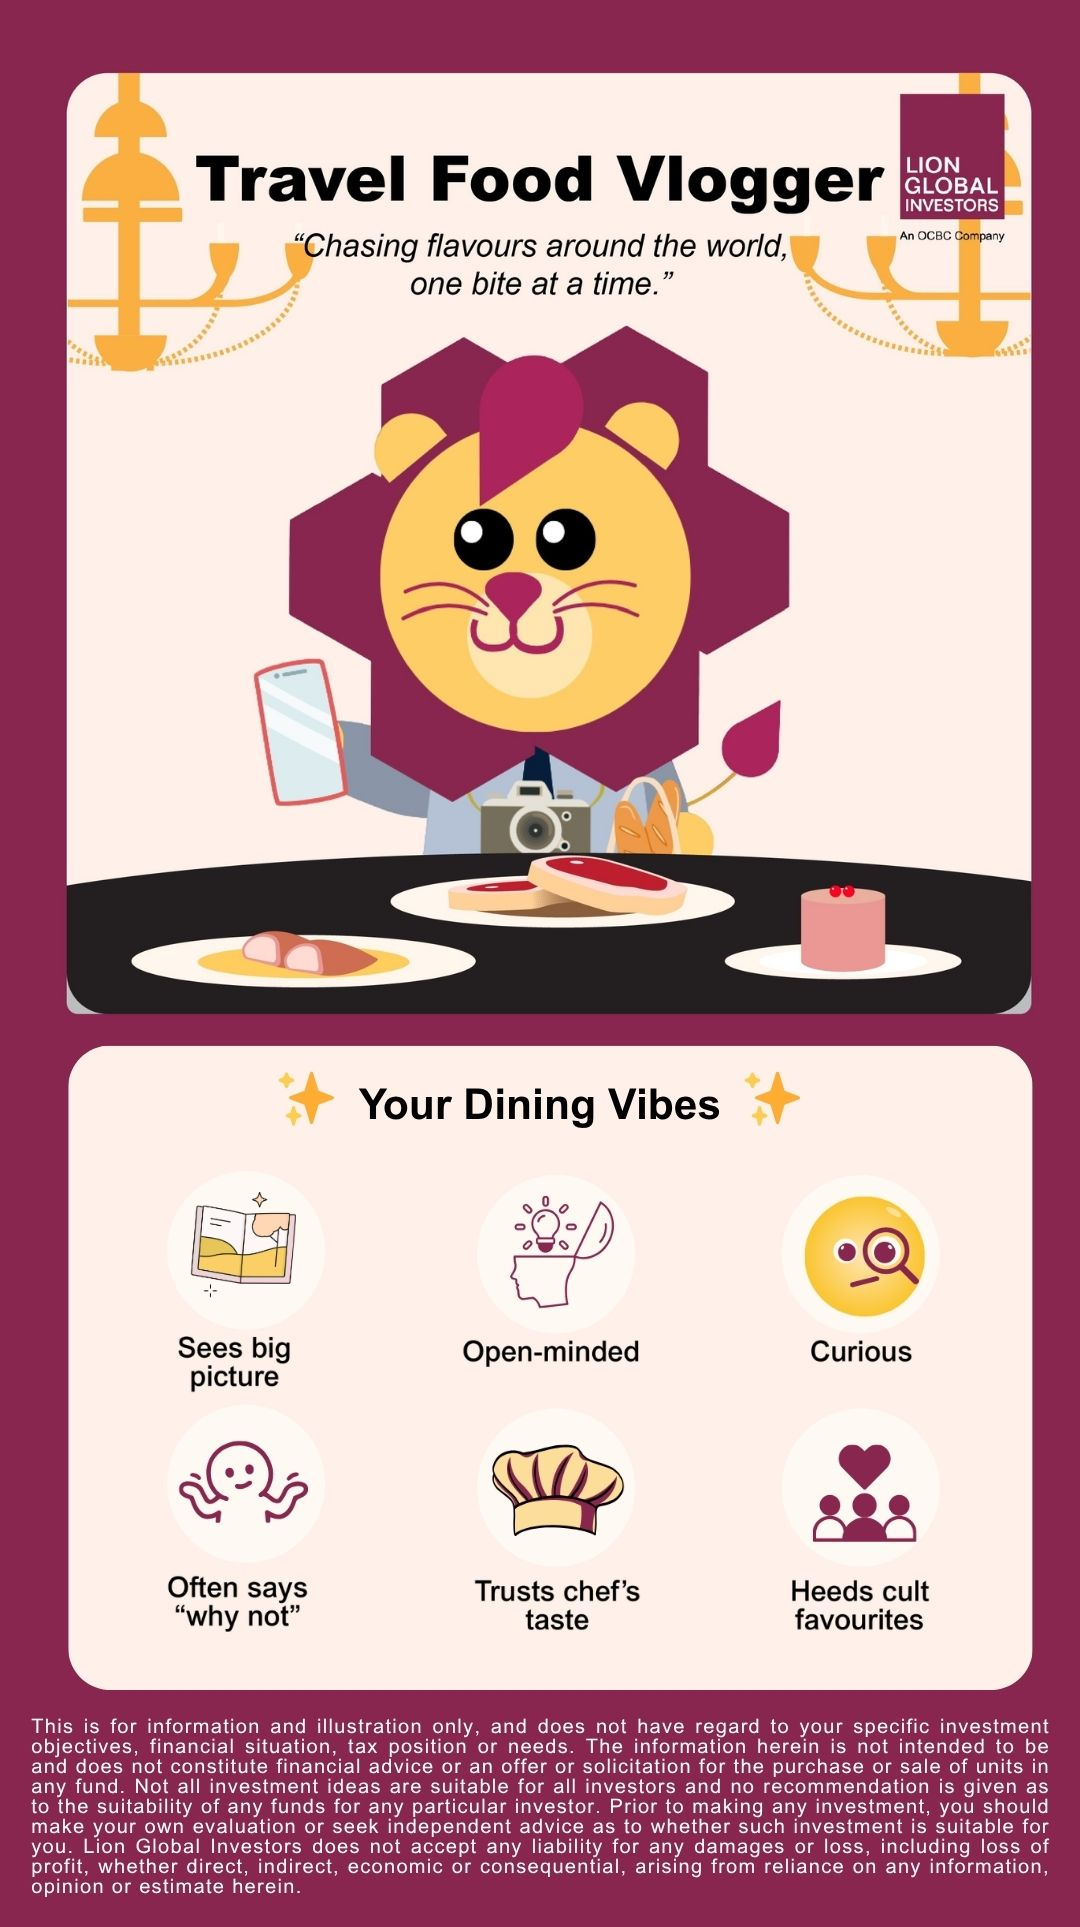
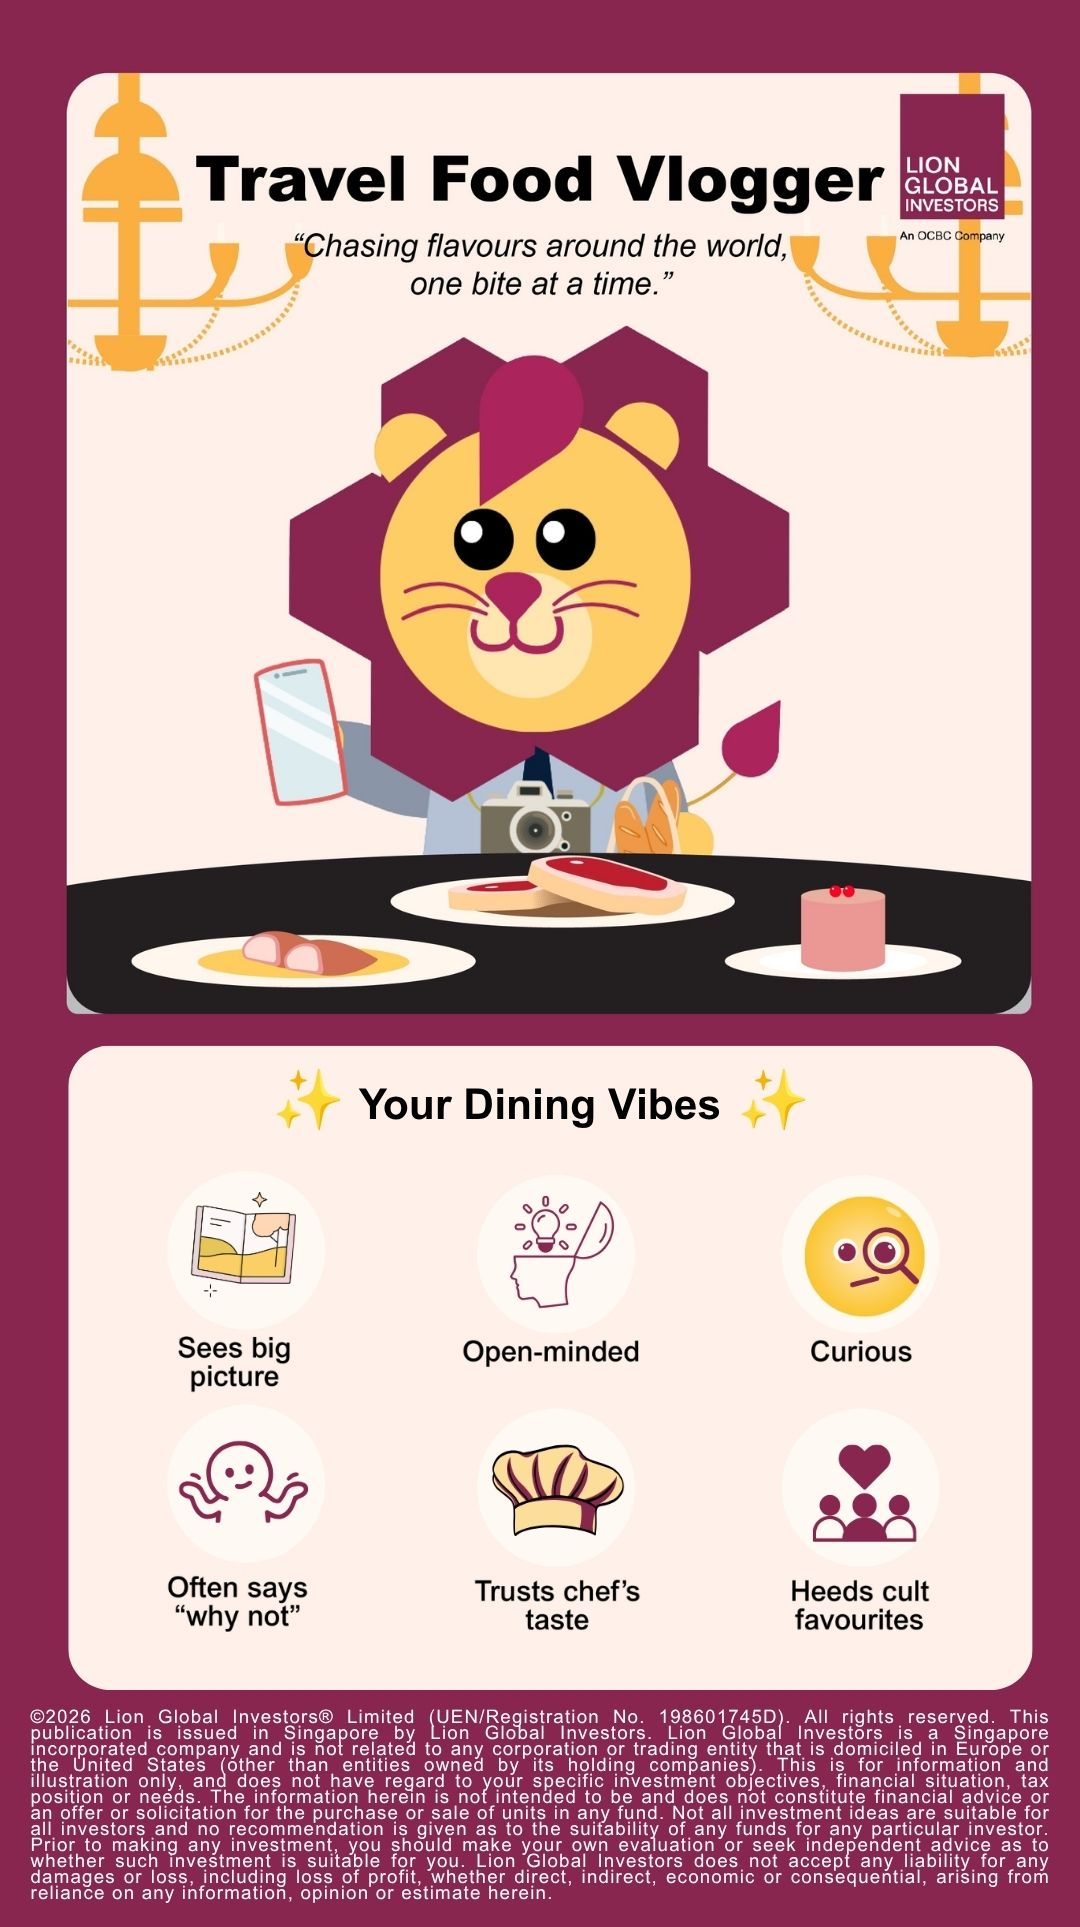
update all disclaimers with company copyright and UEN

Changed region(s): [[0.0306, 0.8718, 0.9778, 0.9964], [0.6722, 0.5293, 0.7333, 0.5916], [0.2444, 0.5605, 0.3056, 0.5916]]

diff --git a/result-classic-lover.html b/result-classic-lover.html
@@ -140,7 +140,7 @@
           
         </div>
 
-        <p class="disclaimer" id="disclaimer">^LBMA GOLD PRICE IS A TRADEMARK OF PRECIOUS METALS PRICES LIMITED, LICENSED TO ICE BENCHMARK ADMINISTRATION LIMITED (IBA) AS THE ADMINISTRATOR OF THE LBMA GOLD PRICE, AND IS USED BY LION GLOBAL INVESTORS LIMITED WITH PERMISSION UNDER LICENCE FROM IBA. <br> This is for information and illustration only, and does not have regard to your specific investment objectives, financial situation, tax position or needs. The information herein is not intended to be and does not constitute financial advice or an offer or solicitation for the purchase or sale of units in any fund. Not all investment ideas are suitable for all investors and no recommendation is given as to the suitability of any funds for any particular investor. You should read the prospectus and Product Highlights Sheet of the relevant fund which are available and may be obtained from Lion Global Investors Limited or any of its distributors, for further details including the risk factors and consider if a fund is suitable for you. Prior to making any investment, you should make your own evaluation or seek independent advice as to whether such investment is suitable for you. Lion Global Investors does not accept any liability for any damages or loss, including loss of profit, whether direct, indirect, economic or consequential, arising from reliance on any information, opinion or estimate herein.</p>
+        <p class="disclaimer" id="disclaimer">^LBMA GOLD PRICE IS A TRADEMARK OF PRECIOUS METALS PRICES LIMITED, LICENSED TO ICE BENCHMARK ADMINISTRATION LIMITED (IBA) AS THE ADMINISTRATOR OF THE LBMA GOLD PRICE, AND IS USED BY LION GLOBAL INVESTORS LIMITED WITH PERMISSION UNDER LICENCE FROM IBA. <br> ©2026 Lion Global Investors® Limited (UEN/Registration No. 198601745D). All rights reserved. This publication is issued in Singapore by Lion Global Investors. Lion Global Investors is a Singapore incorporated company and is not related to any corporation or trading entity that is domiciled in Europe or the United States (other than entities owned by its holding companies). This is for information and illustration only, and does not have regard to your specific investment objectives, financial situation, tax position or needs. The information herein is not intended to be and does not constitute financial advice or an offer or solicitation for the purchase or sale of units in any fund. Not all investment ideas are suitable for all investors and no recommendation is given as to the suitability of any funds for any particular investor. You should read the prospectus and Product Highlights Sheet of the relevant fund which are available and may be obtained from Lion Global Investors Limited or any of its distributors, for further details including the risk factors and consider if a fund is suitable for you. Prior to making any investment, you should make your own evaluation or seek independent advice as to whether such investment is suitable for you. Lion Global Investors does not accept any liability for any damages or loss, including loss of profit, whether direct, indirect, economic or consequential, arising from reliance on any information, opinion or estimate herein.</p>
         
         <p class="spacer"></p>
       </div>

diff --git a/result-travel-food-vlogger.html b/result-travel-food-vlogger.html
@@ -141,7 +141,7 @@
           
         </div>
 
-        <p class="disclaimer" id="disclaimer">^LBMA GOLD PRICE IS A TRADEMARK OF PRECIOUS METALS PRICES LIMITED, LICENSED TO ICE BENCHMARK ADMINISTRATION LIMITED (IBA) AS THE ADMINISTRATOR OF THE LBMA GOLD PRICE, AND IS USED BY LION GLOBAL INVESTORS LIMITED WITH PERMISSION UNDER LICENCE FROM IBA. <br> This is for information and illustration only, and does not have regard to your specific investment objectives, financial situation, tax position or needs. The information herein is not intended to be and does not constitute financial advice or an offer or solicitation for the purchase or sale of units in any fund. Not all investment ideas are suitable for all investors and no recommendation is given as to the suitability of any funds for any particular investor. You should read the prospectus and Product Highlights Sheet of the relevant fund which are available and may be obtained from Lion Global Investors Limited or any of its distributors, for further details including the risk factors and consider if a fund is suitable for you. Prior to making any investment, you should make your own evaluation or seek independent advice as to whether such investment is suitable for you. Lion Global Investors does not accept any liability for any damages or loss, including loss of profit, whether direct, indirect, economic or consequential, arising from reliance on any information, opinion or estimate herein.</p>
+        <p class="disclaimer" id="disclaimer">^LBMA GOLD PRICE IS A TRADEMARK OF PRECIOUS METALS PRICES LIMITED, LICENSED TO ICE BENCHMARK ADMINISTRATION LIMITED (IBA) AS THE ADMINISTRATOR OF THE LBMA GOLD PRICE, AND IS USED BY LION GLOBAL INVESTORS LIMITED WITH PERMISSION UNDER LICENCE FROM IBA. <br> ©2026 Lion Global Investors® Limited (UEN/Registration No. 198601745D). All rights reserved. This publication is issued in Singapore by Lion Global Investors. Lion Global Investors is a Singapore incorporated company and is not related to any corporation or trading entity that is domiciled in Europe or the United States (other than entities owned by its holding companies). This is for information and illustration only, and does not have regard to your specific investment objectives, financial situation, tax position or needs. The information herein is not intended to be and does not constitute financial advice or an offer or solicitation for the purchase or sale of units in any fund. Not all investment ideas are suitable for all investors and no recommendation is given as to the suitability of any funds for any particular investor. You should read the prospectus and Product Highlights Sheet of the relevant fund which are available and may be obtained from Lion Global Investors Limited or any of its distributors, for further details including the risk factors and consider if a fund is suitable for you. Prior to making any investment, you should make your own evaluation or seek independent advice as to whether such investment is suitable for you. Lion Global Investors does not accept any liability for any damages or loss, including loss of profit, whether direct, indirect, economic or consequential, arising from reliance on any information, opinion or estimate herein.</p>
         
         <p class="spacer"></p>
       </div>

diff --git a/result-adventurous-foodie.html b/result-adventurous-foodie.html
@@ -130,7 +130,7 @@
           
         </div>
 
-        <p class="disclaimer" id="disclaimer">This is for information and illustration only, and does not have regard to your specific investment objectives, financial situation, tax position or needs. The information herein is not intended to be and does not constitute financial advice or an offer or solicitation for the purchase or sale of units in any fund. Not all investment ideas are suitable for all investors and no recommendation is given as to the suitability of any funds for any particular investor. You should read the prospectus and Product Highlights Sheet of the relevant fund which are available and may be obtained from Lion Global Investors Limited or any of its distributors, for further details including the risk factors and consider if a fund is suitable for you. Prior to making any investment, you should make your own evaluation or seek independent advice as to whether such investment is suitable for you. Lion Global Investors does not accept any liability for any damages or loss, including loss of profit, whether direct, indirect, economic or consequential, arising from reliance on any information, opinion or estimate herein.</p>
+        <p class="disclaimer" id="disclaimer">©2026 Lion Global Investors® Limited (UEN/Registration No. 198601745D). All rights reserved. This publication is issued in Singapore by Lion Global Investors. Lion Global Investors is a Singapore incorporated company and is not related to any corporation or trading entity that is domiciled in Europe or the United States (other than entities owned by its holding companies). This is for information and illustration only, and does not have regard to your specific investment objectives, financial situation, tax position or needs. The information herein is not intended to be and does not constitute financial advice or an offer or solicitation for the purchase or sale of units in any fund. Not all investment ideas are suitable for all investors and no recommendation is given as to the suitability of any funds for any particular investor. You should read the prospectus and Product Highlights Sheet of the relevant fund which are available and may be obtained from Lion Global Investors Limited or any of its distributors, for further details including the risk factors and consider if a fund is suitable for you. Prior to making any investment, you should make your own evaluation or seek independent advice as to whether such investment is suitable for you. Lion Global Investors does not accept any liability for any damages or loss, including loss of profit, whether direct, indirect, economic or consequential, arising from reliance on any information, opinion or estimate herein.</p>
         
         <p class="spacer"></p>
       </div>

diff --git a/result-menu-planner.html b/result-menu-planner.html
@@ -142,7 +142,7 @@
           
         </div>
 
-        <p class="disclaimer" id="disclaimer">This is for information and illustration only, and does not have regard to your specific investment objectives, financial situation, tax position or needs. The information herein is not intended to be and does not constitute financial advice or an offer or solicitation for the purchase or sale of units in any fund. Not all investment ideas are suitable for all investors and no recommendation is given as to the suitability of any funds for any particular investor. You should read the prospectus and Product Highlights Sheet of the relevant fund which are available and may be obtained from Lion Global Investors Limited or any of its distributors, for further details including the risk factors and consider if a fund is suitable for you. Prior to making any investment, you should make your own evaluation or seek independent advice as to whether such investment is suitable for you. Lion Global Investors does not accept any liability for any damages or loss, including loss of profit, whether direct, indirect, economic or consequential, arising from reliance on any information, opinion or estimate herein.</p>
+        <p class="disclaimer" id="disclaimer">©2026 Lion Global Investors® Limited (UEN/Registration No. 198601745D). All rights reserved. This publication is issued in Singapore by Lion Global Investors. Lion Global Investors is a Singapore incorporated company and is not related to any corporation or trading entity that is domiciled in Europe or the United States (other than entities owned by its holding companies). This is for information and illustration only, and does not have regard to your specific investment objectives, financial situation, tax position or needs. The information herein is not intended to be and does not constitute financial advice or an offer or solicitation for the purchase or sale of units in any fund. Not all investment ideas are suitable for all investors and no recommendation is given as to the suitability of any funds for any particular investor. You should read the prospectus and Product Highlights Sheet of the relevant fund which are available and may be obtained from Lion Global Investors Limited or any of its distributors, for further details including the risk factors and consider if a fund is suitable for you. Prior to making any investment, you should make your own evaluation or seek independent advice as to whether such investment is suitable for you. Lion Global Investors does not accept any liability for any damages or loss, including loss of profit, whether direct, indirect, economic or consequential, arising from reliance on any information, opinion or estimate herein.</p>
         
         <p class="spacer"></p>
       </div>

diff --git a/result-picky-eater.html b/result-picky-eater.html
@@ -130,7 +130,7 @@
           
         </div>
 
-        <p class="disclaimer" id="disclaimer">This is for information and illustration only, and does not have regard to your specific investment objectives, financial situation, tax position or needs. The information herein is not intended to be and does not constitute financial advice or an offer or solicitation for the purchase or sale of units in any fund. Not all investment ideas are suitable for all investors and no recommendation is given as to the suitability of any funds for any particular investor. You should read the prospectus and Product Highlights Sheet of the relevant fund which are available and may be obtained from Lion Global Investors Limited or any of its distributors, for further details including the risk factors and consider if a fund is suitable for you. Prior to making any investment, you should make your own evaluation or seek independent advice as to whether such investment is suitable for you. Lion Global Investors does not accept any liability for any damages or loss, including loss of profit, whether direct, indirect, economic or consequential, arising from reliance on any information, opinion or estimate herein.</p>
+        <p class="disclaimer" id="disclaimer">©2026 Lion Global Investors® Limited (UEN/Registration No. 198601745D). All rights reserved. This publication is issued in Singapore by Lion Global Investors. Lion Global Investors is a Singapore incorporated company and is not related to any corporation or trading entity that is domiciled in Europe or the United States (other than entities owned by its holding companies). This is for information and illustration only, and does not have regard to your specific investment objectives, financial situation, tax position or needs. The information herein is not intended to be and does not constitute financial advice or an offer or solicitation for the purchase or sale of units in any fund. Not all investment ideas are suitable for all investors and no recommendation is given as to the suitability of any funds for any particular investor. You should read the prospectus and Product Highlights Sheet of the relevant fund which are available and may be obtained from Lion Global Investors Limited or any of its distributors, for further details including the risk factors and consider if a fund is suitable for you. Prior to making any investment, you should make your own evaluation or seek independent advice as to whether such investment is suitable for you. Lion Global Investors does not accept any liability for any damages or loss, including loss of profit, whether direct, indirect, economic or consequential, arising from reliance on any information, opinion or estimate herein.</p>
         
         <p class="spacer"></p>
       </div>

diff --git a/result-restaurant-critic.html b/result-restaurant-critic.html
@@ -142,7 +142,7 @@
           
         </div>
 
-        <p class="disclaimer" id="disclaimer">This is for information and illustration only, and does not have regard to your specific investment objectives, financial situation, tax position or needs. The information herein is not intended to be and does not constitute financial advice or an offer or solicitation for the purchase or sale of units in any fund. Not all investment ideas are suitable for all investors and no recommendation is given as to the suitability of any funds for any particular investor. You should read the prospectus and Product Highlights Sheet of the relevant fund which are available and may be obtained from Lion Global Investors Limited or any of its distributors, for further details including the risk factors and consider if a fund is suitable for you. Prior to making any investment, you should make your own evaluation or seek independent advice as to whether such investment is suitable for you. Lion Global Investors does not accept any liability for any damages or loss, including loss of profit, whether direct, indirect, economic or consequential, arising from reliance on any information, opinion or estimate herein.</p>
+        <p class="disclaimer" id="disclaimer">©2026 Lion Global Investors® Limited (UEN/Registration No. 198601745D). All rights reserved. This publication is issued in Singapore by Lion Global Investors. Lion Global Investors is a Singapore incorporated company and is not related to any corporation or trading entity that is domiciled in Europe or the United States (other than entities owned by its holding companies). This is for information and illustration only, and does not have regard to your specific investment objectives, financial situation, tax position or needs. The information herein is not intended to be and does not constitute financial advice or an offer or solicitation for the purchase or sale of units in any fund. Not all investment ideas are suitable for all investors and no recommendation is given as to the suitability of any funds for any particular investor. You should read the prospectus and Product Highlights Sheet of the relevant fund which are available and may be obtained from Lion Global Investors Limited or any of its distributors, for further details including the risk factors and consider if a fund is suitable for you. Prior to making any investment, you should make your own evaluation or seek independent advice as to whether such investment is suitable for you. Lion Global Investors does not accept any liability for any damages or loss, including loss of profit, whether direct, indirect, economic or consequential, arising from reliance on any information, opinion or estimate herein.</p>
         
         <p class="spacer"></p>
       </div>
